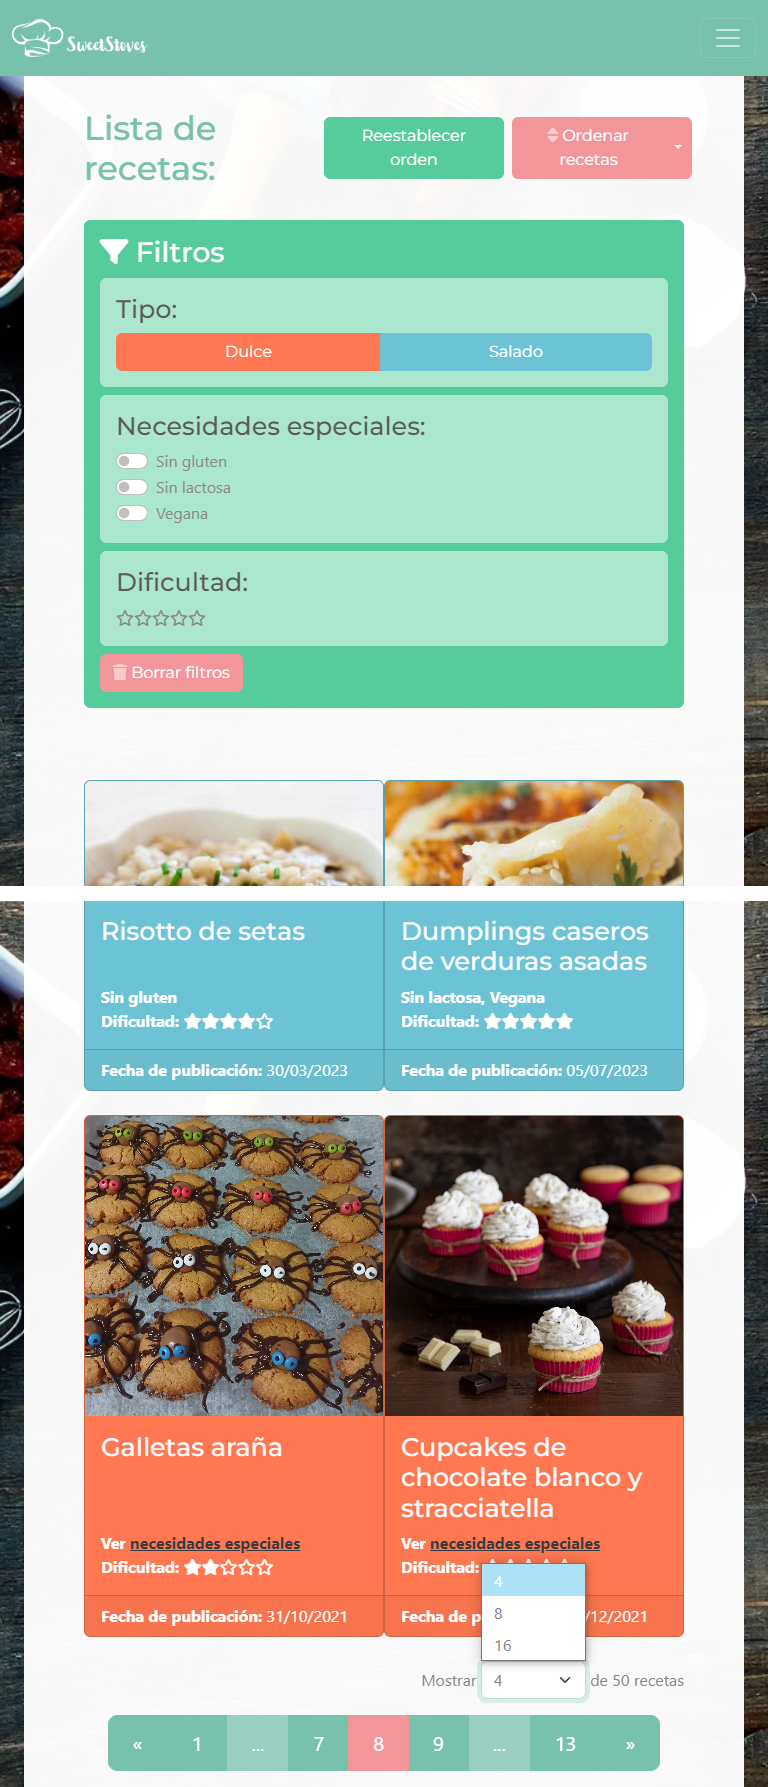
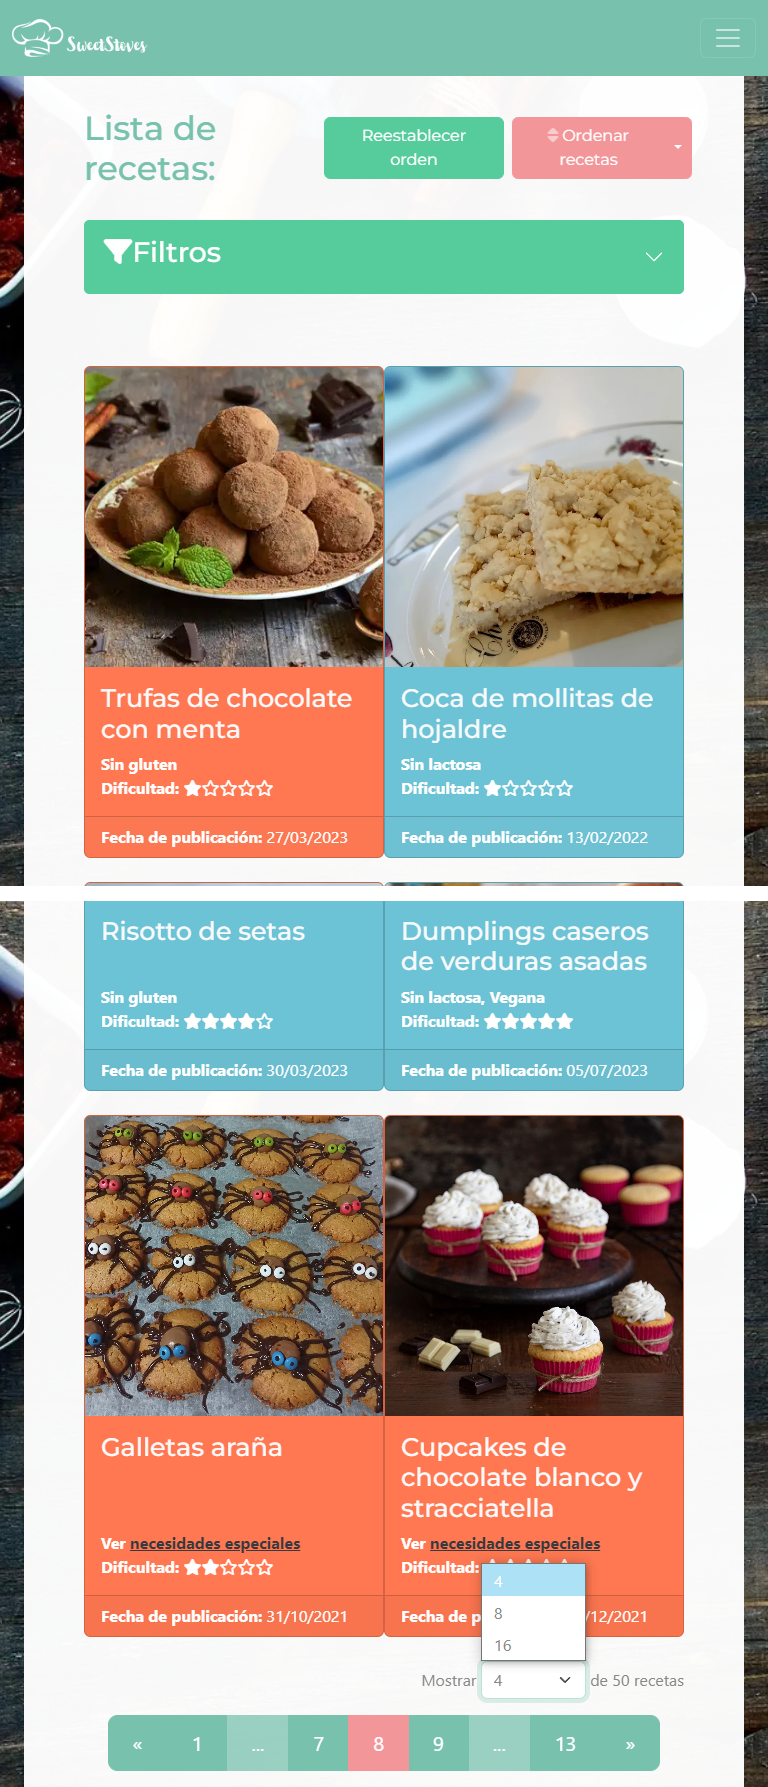
Actualizar documentación

Changed region(s): [[0.0938, 0.1231, 0.9062, 0.5232]]

diff --git a/Frontend/src/app/repice-list/repice-list.component.html b/Frontend/src/app/repice-list/repice-list.component.html
@@ -41,12 +41,12 @@
   <div class="accordion offset-1 col-10 col-lg-3 mb-5 bg-success rounded-3" id="accordionFilters">
     <div class="accordion-item bg-success border-0">
       <h2 class="accordion-header" id="filters">
-        <button class="accordion-button bg-success shadow-none collapsed" *ngIf="innerWidth<767, else noButton" type="button" data-bs-toggle="collapse" data-bs-target="#filterscollapseFilters" [attr.aria-expanded]="innerWidth>=767" aria-controls="filterscollapseFilters">
+        <button class="accordion-button bg-success shadow-none collapsed" *ngIf="innerWidth<992, else noButton" type="button" data-bs-toggle="collapse" data-bs-target="#filterscollapseFilters" [attr.aria-expanded]="innerWidth>=992" aria-controls="filterscollapseFilters">
           <div class="h2 text-white"><i class="fa-solid fa-filter"></i>Filtros</div>
         </button>
         <ng-template #noButton><div class="h2 text-white ps-3 pt-3"><i class="fa-solid fa-filter"></i>Filtros</div></ng-template>
       </h2>
-      <div id="filterscollapseFilters" class="accordion-collapse collapse border-0" [ngClass]="{'show':innerWidth>=767}" aria-labelledby="filters" data-bs-parent="#accordionFilters">
+      <div id="filterscollapseFilters" class="accordion-collapse collapse border-0" [ngClass]="{'show':innerWidth>=992}" aria-labelledby="filters" data-bs-parent="#accordionFilters">
         <div class="accordion-body">
           <form>
             <div class="form-group row g-0 mb-2 bg-white bg-opacity-50 rounded-4 p-3">

diff --git a/Frontend/src/app/user-info/user-info.component.ts b/Frontend/src/app/user-info/user-info.component.ts
@@ -10,7 +10,7 @@ import { AuthService } from '../services/auth.service';
 })
 export class UserInfoComponent {
   user = this.authService.getUser();
-  movil = window.innerWidth<767;
+  movil = window.innerWidth<=767;
   opciones:{titulo:string, color:string, link:string, texto:string}[] = [
     {titulo:'Tu lista de recetas', color:'btn-outline-secondary', link:'recetas', texto:'Comprueba las recetas que has creado y seguido'},
     {titulo:'Nueva receta', color:'btn-outline-success', link:'nueva-receta', texto:'Crea una nueva receta que se vinculará a tu cuenta'},

diff --git a/README.md b/README.md
@@ -58,7 +58,7 @@ Esta lista se puede ordenar por dificultad y por fecha de publicación, tanto as
 
 <img src="images/03_recetas_ordenadas.png">
 
-Además, se puede filtrar de diferentes maneras para que el usuario de la web pueda encontrar la receta que más se ajuste a él en el menor tiempo posible. También se pueden buscar recetas por nombre mediante la barra de búsqueda en la barra de navegación de SweetStoves. En el siguiente ejemplo se han utilizado los filtros _Dulce_ y *dificultad 2 de 5*.
+Además, se puede filtrar de diferentes maneras para que el usuario de la web pueda encontrar la receta que más se ajuste a él en el menor tiempo posible. El menú de filtros es desplegable en versión tablet y móvil. También se pueden buscar recetas por nombre mediante la barra de búsqueda en la barra de navegación de SweetStoves. En el siguiente ejemplo se han utilizado los filtros _Dulce_ y *dificultad 2 de 5*.
 
 <img src="images/04_recetas_filtradas.png">
 
@@ -79,7 +79,7 @@ Si se pincha en el título de una de las recetas, se pueden observar los detalle
 Aparte de los datos visibles en la lista de recetas, también se pueden consultar la lista de ingredientes y el menú de la elaboración de la receta. Dicho menú se puede ir desplegando para ir navegando por cada paso.\
 El paso final contiene un botón para volver a la lista de recetas y un botón para añadir la receta a la lista personal del usuario en el caso de haber iniciado sesión y no ser el creador de la receta.
 
-<p align="center"><img src="images/09_paso_final.png" height="450"></p>
+<p align="center"><img src="images/09_paso_final.png" width="525"></p>
 
 ### Lista de usuarios
 Aquí se pueden ver todos los usuarios registrados en el blog con parte de sus datos. Los usuarios que no tengan foto de perfil tendrán un icono predeterminado (este es el caso del usuario *darks13*). En este apartado también se han añadido la paginación y la opción de cambiar los usuarios mostrados por página. Además, en esta lista se pueden consultar las recetas que ha creado cada usuario pulsando el botón que se encuentra debajo del nombre del usuario.
@@ -99,7 +99,7 @@ Se puede acceder a este menú desde la barra de navegación y desde el enlace qu
 La persona que quiera registrarse en SweetStoves debe rellenar al menos los campos obligatorios. Si los rellena mal, saltarán los errores que haya cometido cuando intente registrarse. Asimismo, no se permitirá el registro de un usuario y/o correo electrónico duplicado. El futuro usuario de la web puede retocar los datos erróneos o borrar los datos del formulario con el botón _Borrar datos_.
 
 <p align="center">
-    <img src="images/13_registro_errores.png" height="450">
+    <img src="images/13_registro_errores.png" width="670">
 </p>
 
 Cuando se envía el formulario correctamente, se redirecciona al usuario al perfil del nuevo usuario.\
@@ -120,7 +120,7 @@ Si el usuario pulsa el botón _Iniciar sesión_ y al menos uno de los datos no e
 Cuando el usuario ha iniciado sesión, en la barra de navegación desaparecen los enlaces a los menús de login y registro. En su lugar, aparecerá la foto de perfil del usuario (como es el caso de _trafasan_) o la primera letra de su usuario en caso de no haber guardado foto (como es el caso de *darks13*).
 
 <p align="center">
-    <img src="images/16_link_usuario.png" height="200">
+    <img src="images/16_link_usuario.png" width="415">
 </p>
 
 En este menú, el usuario puede hacer varias tareas que puede elegir en el menú lateral que aparece cuando se pulsa el botón _¿Quieres hacer algo hoy?_
@@ -172,21 +172,21 @@ En esta última opción el usuario puede borrar su cuenta, aunque también borra
 La experiencia de SweetStoves también se puede vivir en Tablet y en móvil. En este apartado se pueden ver algunos menús en formato Tablet (768x886) y móvil (425x886):
 - Menú de inicio:
     <p align="center">
-    <img src="images/25_inicio_movil.png" height="450">
-    <img src="images/26_inicio_tablet.png" height="450">
+    <img src="images/25_inicio_movil.png" width="215">
+    <img src="images/26_inicio_tablet.png" width="390">
     </p>
 - Lista de recetas:
     <p align="center">
-    <img src="images/27_recetas_tablet.png" height="900">
-    <img src="images/28_recetas_movil.png" height="900">
+    <img src="images/27_recetas_tablet.png" width="390">
+    <img src="images/28_recetas_movil.png" width="215">
     </p>
 - Lista de usuarios:
     <p align="center">
-    <img src="images/29_usuarios_movil.png" height="900">
-    <img src="images/30_usuarios_tablet.png" height="900">
+    <img src="images/29_usuarios_movil.png" width="215">
+    <img src="images/30_usuarios_tablet.png" width="390">
     </p>
 - Registro:
     <p align="center">
-    <img src="images/31_registro_tablet.png" height="450">
-    <img src="images/32_registro_movil.png" height="450">
+    <img src="images/31_registro_tablet.png" width="390">
+    <img src="images/32_registro_movil.png" width="215">
     </p>
